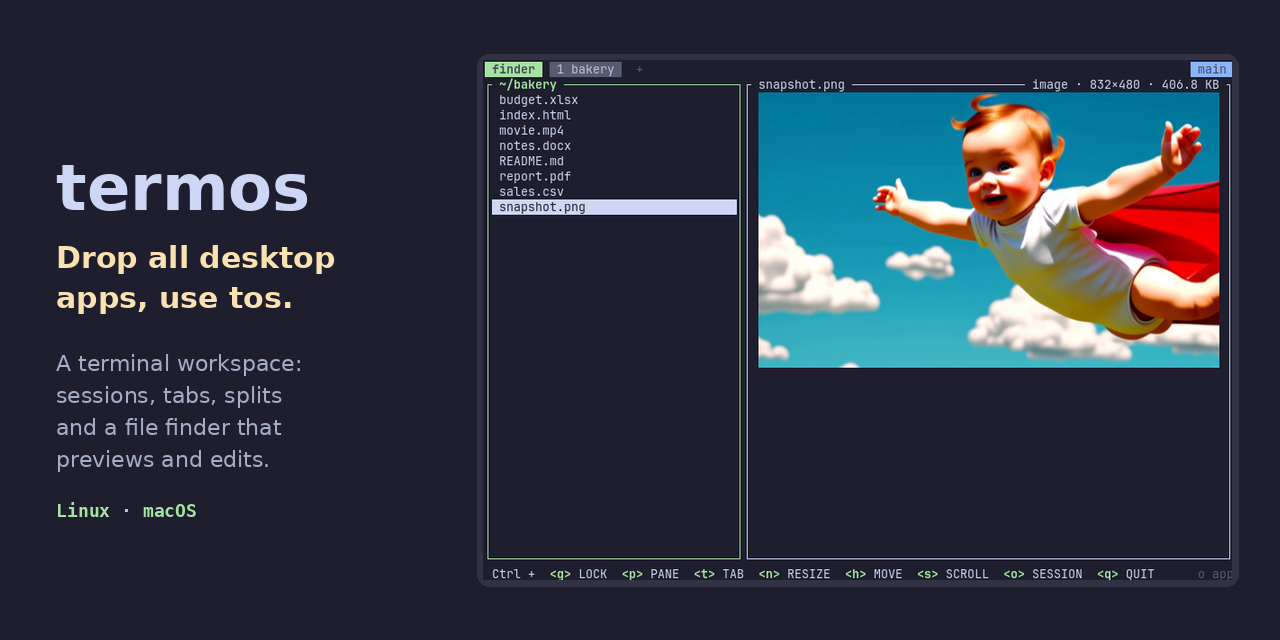
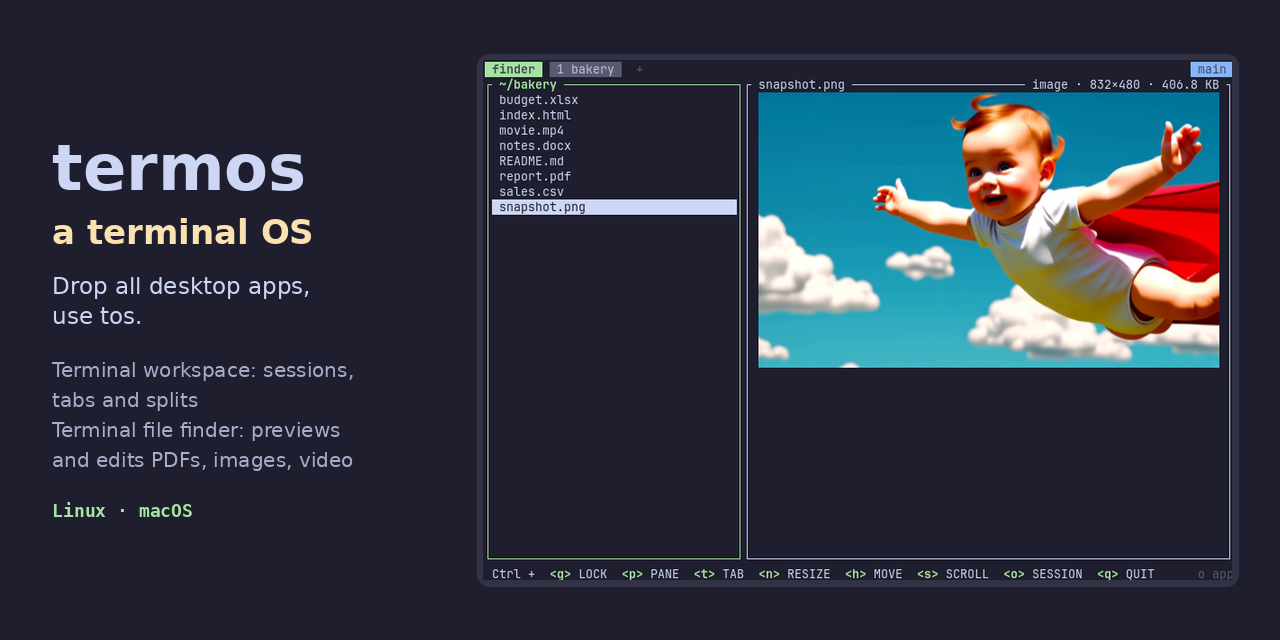
README and releases: say "terminal OS", "terminal workspace", "terminal file finder"
So people searching for those find termos: the README's heading, pitch and finder
heading use each phrase once, release titles read "termos X: a terminal OS", and
the social preview image says it too. On GitHub (not in this commit) the repo's
description and topics now carry the same phrases.

Baseline: docs/findings/2026-11-13-search-baseline.md (not in GitHub's top 100 for
any of them). Plan: docs/plans/2026-11-13-readme-marketing.md.

Claude-Session: https://claude.ai/code/session_01QnP77eAUp6raQvdHtAMvjF

Changed region(s): [[0.0312, 0.2188, 0.2812, 0.5], [0.0312, 0.5625, 0.2812, 0.75], [0.0312, 0.7812, 0.1562, 0.8125]]

diff --git a/docs/findings/2026-11-13-search-baseline.md b/docs/findings/2026-11-13-search-baseline.md
@@ -1,0 +1,73 @@
+# Finding: where termos shows up in GitHub search (2026-11-13)
+
+## Question
+
+The user wants people searching for "terminal os" and "terminal workspace" to find the repo. Where does it rank
+now, and what does it compete with? Which changes are worth making depends on it.
+
+## Method
+
+`gh` (as `hugegene`), the repo at v0.4.3, with 1 star and no homepage set:
+
+```
+gh search repos "<query>" --limit 100 --json fullName,stargazersCount,description
+```
+
+The queries were "terminal os", "terminal workspace" and "termos", sorted by GitHub's "best match". For each, the
+top 6 results were noted, and the 100 were searched for `hugegene/termos`.
+
+## Results
+
+```
+"terminal os"         1 MenkeTechnologies/zpwr 227★ "ZPWR => Terminal OS"
+                      2 nilseuropa/solar_os 276★ "…a small text-first pocket terminal OS…"
+                      3 terroo/terminalroot-os 39★   4 rolandnsharp/terminal-oscilloscope 109★
+                      5 wbopan/vscode-terminal-osc-notifier 11★   6 HydeHunter2/terminal-OS 22★
+                      hugegene/termos: not in the top 100
+"terminal workspace"  1 zellij-org/zellij 36047★ "A terminal workspace with batteries included"
+                      2 nyakang/nyaterm 2396★   3 with-hide/hide 102★   4 taixu-lab/taixu 188★
+                      5 stumptowndoug/shep 86★ "A native terminal workspace for your coding agents"
+                      6 xuzhougeng/wispterm 470★
+                      hugegene/termos: not in the top 100
+"termos"              1–6: Portuguese repos ("termos" means "terms"), 23–715★
+                      hugegene/termos: not in the top 100
+```
+
+The repo's description then was "Drop all desktop apps, use tos: a terminal workspace with sessions, tabs,
+splits and a file finder that previews and edits files". Its topics were claude-code, cli, file-manager,
+file-preview, rust, terminal, terminal-multiplexer, tmux, tui and zellij.
+
+## Conclusions
+
+- **termos isn't in the top 100 for any of the three queries,** not even its own name.
+- **The leaders all have the exact phrase in their description,** and they have stars. "terminal os" is won with
+  only 39–276 stars, so it's reachable. "terminal workspace" is led by zellij (36 thousand stars), so the realistic
+  aim there is the first page, not the top.
+- **"termos" alone collides with Portuguese "terms",** so the name should always be paired with "terminal OS"
+  or `tos`.
+- **Unknown:** how much each lever moves the rank. GitHub doesn't publish its ranking. Re-run this search after
+  changing the description, the topics and the README, and again after any launch, and add a new dated finding.
+
+## Added later the same day: "terminal file finder"
+
+**Method:** the same `gh search repos` (100 results asked for). Then the sizes of two topics, from
+`gh api "search/repositories?q=topic:<topic>&per_page=1" --jq .total_count`.
+
+**Results:**
+
+```
+"terminal file finder"   3 results in all:
+                         1 hanilr/tff 7★ "Terminal File Finder Written In C++"
+                         2 hamonikr/hamonikr-ff 0★ "hamonikr terminal file finder"
+                         3 hariharen9/wtf 0★ "…interactive terminal file finder and CLI s…"
+                         hugegene/termos: not in the results
+topic:terminal-file-manager   24 repos
+topic:file-finder             50 repos
+```
+
+**Conclusions:**
+- **"terminal file finder" has almost no competition.** With the exact phrase in termos's description, it
+  should reach the first page (an **estimate**, to check by re-running the search).
+- **The two topics are small,** so termos would be easy to find within them.
+- **The nearby query "terminal file manager" wasn't measured.** Large projects are known to own it (yazi,
+  ranger, lf, nnn).

diff --git a/docs/plans/2026-11-13-readme-marketing.md b/docs/plans/2026-11-13-readme-marketing.md
@@ -61,3 +61,31 @@ install it, and why to switch. Everything a visitor needs only once they're inte
    `GH_TOKEN=$(gh auth token --user hugegene) gh repo edit …`. The active `gh` account is the work one; don't
    switch it.
 6. The user uploads the social preview in Settings → General → Social preview.
+
+## Changed: found by "terminal OS", "terminal workspace" and "terminal file finder" (2026-11-13)
+
+**Asked by the user:** people searching for these three phrases should find the repo. **Baseline:** termos was in
+none of GitHub's top 100 for any of them, nor for "termos", which is Portuguese for "terms"
+([finding](../findings/2026-11-13-search-baseline.md)).
+
+**Done:** each phrase is placed once, where search engines read it, with no stuffing.
+- **The repo's description (GitHub, as `hugegene`):** "termos: a terminal OS and terminal workspace. Sessions,
+  tabs and splits, with a terminal file finder that previews and edits PDFs, images, videos, Office files and
+  CSV. Drop all desktop apps." GitHub search matches it, and it's Google's page title.
+- **Topics:** added `terminal-os`, `terminal-workspace`, `file-finder`, `terminal-file-manager`, `productivity`,
+  `developer-tools`, `ai-agents` and `workspace`, which makes 18.
+- **README:**
+  - the heading is `# termos: a terminal OS`
+  - the pitch says "short for terminal OS, is a terminal workspace with a terminal file finder built in"
+  - `## Finder` is now `## Terminal file finder`
+- **Releases:** `release.yml` titles them "termos X: a terminal OS". v0.4.3 was retitled to match and given notes.
+- **Social preview:** `docs/images/social-preview.png` now has "a terminal OS". The user uploads it by hand.
+
+**Not done (the user's part):**
+- **Stars and links:** a Show HN post, Reddit (r/commandline, r/rust, r/linux), lobste.rs, awesome lists
+  (awesome-tuis, awesome-cli-apps, awesome-rust, awesome-claude-code), and a Homebrew tap and an AUR package.
+- **Optional:** a GitHub Pages site set as the homepage.
+
+**To check:** re-run the baseline's searches in a day or two, and again after any launch, and record a new
+finding. **Estimate:** "terminal file finder" should reach the first page at once; "terminal OS" needs some
+stars (the leaders have 39–276); "terminal workspace" is led by zellij, with 36 thousand.

diff --git a/README.md b/README.md
@@ -1,4 +1,4 @@
-# termos
+# termos: a terminal OS
 
 [![Latest release](https://img.shields.io/github/v/release/hugegene/termos)](https://github.com/hugegene/termos/releases/latest)
 [![MIT license](https://img.shields.io/github/license/hugegene/termos)](LICENSE)
@@ -7,9 +7,9 @@
 
 **Drop all desktop apps, use `tos`.**
 
-termos (`tos`) is a terminal workspace that does the jobs of your file manager, your file viewers and tmux.
-Browse, preview and edit files, keep sessions alive through reboots, and run AI coding agents side by side, all
-in one program.
+termos (`tos`), short for terminal OS, is a terminal workspace with a terminal file finder built in. It does the
+jobs of your file manager, your file viewers and tmux: browse, preview and edit files, keep sessions alive through
+reboots, and run AI coding agents side by side, all in one program.
 
 ![tos in 30 seconds: the finder showing a spreadsheet, editing a web page in Neovim, a video, a Word document, a PDF page, editing a CSV, and a picture; then Claude Code in a new tab writing server.py, which the finder lists](docs/images/demo-short.gif)
 
@@ -142,7 +142,7 @@ panes, swap layouts, pane groups and zellij's plugins.
 - **Mouse:** click to focus, click tabs, drag the lines between panes to resize, wheel to scroll back, drag to
   select and copy (OSC 52).
 
-## Finder
+## Terminal file finder
 
 - **Moving:** the arrows move; `←` and `→` move focus between the file list and the preview, and up and into
   folders. `Enter` in the list does what `→` does. `[` `]` page through a preview. `/` filters, `.` hides hidden
